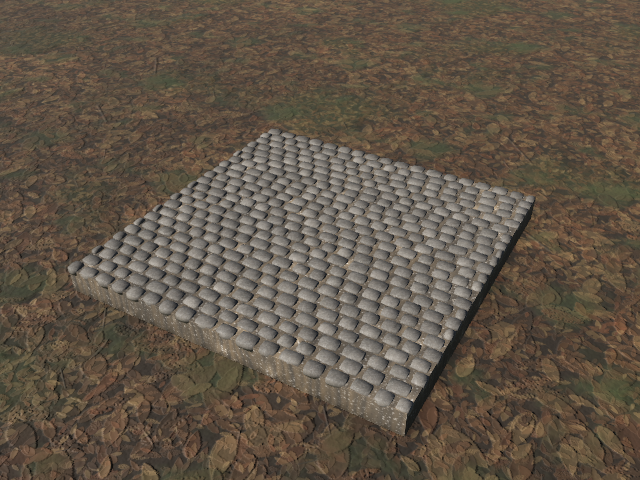
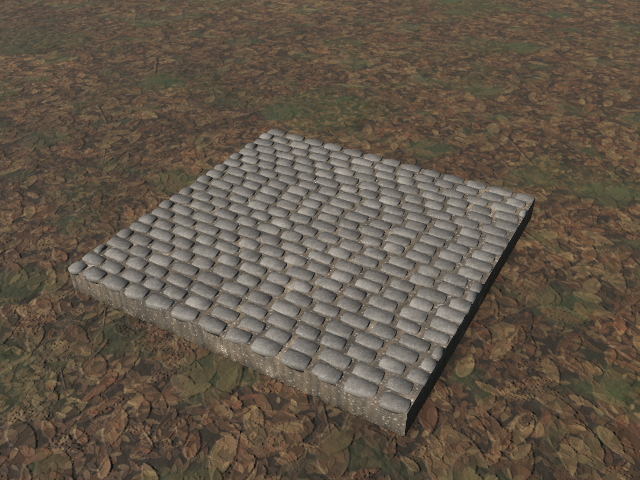
City tiles: summaries under 160 chars, cobble setts 22 x 12 cm within the 15k brief cap; signal lamp materials

Changed region(s): [[0.0938, 0.2812, 0.8438, 0.875]]

diff --git a/Sources/RealMaterials/Library/City.swift b/Sources/RealMaterials/Library/City.swift
@@ -60,13 +60,13 @@ public extension MaterialLibrary {
         MaterialSpec(key: "sign.green", program: nil).with { $0.baseColor = V3(0.0, 0.16, 0.07); $0.roughness = 0.35; $0.clearcoat = 0.6 },
         // Signal lamps lit: red, amber, green, walk-white, don't-walk orange.
         MaterialSpec(key: "emissive.signal-red", program: nil).with {
-            $0.baseColor = V3(1, 0.1, 0.06); $0.mode = .emissive; $0.emissive = V3(1, 0.08, 0.04); $0.emissiveIntensity = 5
+            $0.baseColor = V3(0.9, 0.02, 0.01); $0.mode = .emissive; $0.emissive = V3(1, 0.03, 0.01); $0.emissiveIntensity = 2.5
         },
         MaterialSpec(key: "emissive.signal-green", program: nil).with {
-            $0.baseColor = V3(0.2, 1, 0.75); $0.mode = .emissive; $0.emissive = V3(0.1, 1, 0.7); $0.emissiveIntensity = 5
+            $0.baseColor = V3(0.05, 0.9, 0.6); $0.mode = .emissive; $0.emissive = V3(0.02, 1, 0.65); $0.emissiveIntensity = 2.5
         },
         MaterialSpec(key: "emissive.signal-orange", program: nil).with {
-            $0.baseColor = V3(1, 0.45, 0.1); $0.mode = .emissive; $0.emissive = V3(1, 0.4, 0.08); $0.emissiveIntensity = 4
+            $0.baseColor = V3(1, 0.35, 0.02); $0.mode = .emissive; $0.emissive = V3(1, 0.32, 0.02); $0.emissiveIntensity = 2.5
         },
         MaterialSpec(key: "emissive.signal-white", program: nil).with {
             $0.baseColor = V3(1, 0.97, 0.9); $0.mode = .emissive; $0.emissive = V3(1, 0.96, 0.88); $0.emissiveIntensity = 4
@@ -79,7 +79,7 @@ public extension MaterialLibrary {
         },
         // Fountain basin water, clear with slight green.
         MaterialSpec(key: "water.fountain", program: nil).with {
-            $0.baseColor = V3(0.35, 0.45, 0.42); $0.roughness = 0.03; $0.specular = 0.6; $0.mode = .transparent; $0.opacity = 0.55
+            $0.baseColor = V3(0.12, 0.17, 0.15); $0.roughness = 0.03; $0.specular = 0.7; $0.mode = .transparent; $0.opacity = 0.7
         },
         // Hot-poured crack sealant, dull from grit and traffic.
         MaterialSpec(key: "asphalt.sealant", program: nil).with { $0.baseColor = V3(0.02, 0.02, 0.019); $0.roughness = 0.7 },
@@ -102,6 +102,10 @@ public extension MaterialLibrary {
         MaterialSpec(key: "metal.cast-iron-street", program: .rustMetal).with {
             $0.colorA = linear(0x2E2A27); $0.colorB = linear(0x1A1817); $0.knobs = V4(0.12, 0, 0, 0); $0.seed = 9181
             $0.tileSize = 0.5; $0.hasMetallicMap = true; $0.normalStrength = 2.0; $0.roughness = 0.7
+        },
+        // Aerated falling water and foam: white, translucent.
+        MaterialSpec(key: "water.fountain-foam", program: nil).with {
+            $0.baseColor = V3(0.82, 0.87, 0.87); $0.roughness = 0.25; $0.specular = 0.5; $0.mode = .transparent; $0.opacity = 0.3; $0.twoSided = true
         },
         // realityhd:material.city
     ]

diff --git a/Sources/RealLibrary/Structures/City/CityKit.swift b/Sources/RealLibrary/Structures/City/CityKit.swift
@@ -291,3 +291,39 @@ extension Xform {
         Xform(translation: translation + rotation.act(local.translation * scale), rotation: rotation * local.rotation, scale: scale * local.scale)
     }
 }
+
+// MARK: - Signals
+
+/// Three-section 30 cm (12 in) vehicle signal head facing +Z, origin at the head's center: polycarbonate
+/// housing, lenses with tunnel visors and a black backplate with a yellow retroreflective border.
+/// `lit` 0 red, 1 amber, 2 green; nil = all dark.
+public func citySignalHead(_ m: inout Model, at x: Xform, lit: Int? = 0, sections: Int = 3, housing: MaterialKey = "metal.signal-yellow",
+                           backplate: Bool = true) {
+    let pitch: Float = 0.36, H = pitch * Float(sections) + 0.02, W: Float = 0.36, D: Float = 0.24
+    m.add(Prim.roundedBox(V3(W, H, D), radius: 0.02, bevelSegments: 2, material: housing), x)
+    if backplate {
+        let bp = Shape2D.roundedRect(W + 0.28, H + 0.24, radius: 0.07, segments: 4)
+        citySignPlate(&m, outline: bp, x: x.child(Xform(translation: V3(0, 0, -D / 2 - 0.006))), thickness: 0.004, border: 0.05,
+                      borderMaterial: "sign.white:E8B800", face: "plastic.black", back: nil, twoSided: true)
+    }
+    let lamps: [MaterialKey] = ["emissive.signal-red", "emissive.signal-orange", "emissive.signal-green"]
+    for i in 0..<sections {
+        let y = (Float(sections - 1) / 2 - Float(i)) * pitch
+        let on = (lit ?? -1) == i
+        let face = x.child(Xform(translation: V3(0, y, D / 2)))
+        // Door ring and lens.
+        m.add(Prim.cylinder(radius: 0.155, height: 0.012, bevel: 0.004, segments: 20, bevelSegments: 1, material: housing),
+              face.child(Xform(rotation: simd_quatf(degrees: 90, axis: V3(1, 0, 0)))))
+        var lens = Prim.superellipsoid(V3(0.27, 0.27, 0.04), exponent: 2, subdivisions: 4, material: on ? lamps[i % 3] : "glass.signal-off")
+        lens = lens.transformed(Xform(translation: V3(0, 0, 0.008)))
+        m.add(lens, face)
+        // Tunnel visor: a 300-degree hood open at the bottom, 22 cm deep.
+        let a0: Float = -0.35, a1: Float = .pi + 0.35
+        var band: [V2] = []
+        for k in 0...10 { let a = a0 + (a1 - a0) * Float(k) / 10; band.append(V2(cos(a), sin(a)) * 0.168) }
+        for k in (0...10).reversed() { let a = a0 + (a1 - a0) * Float(k) / 10; band.append(V2(cos(a), sin(a)) * 0.176) }
+        var hood = Prim.extrude(band.reversedIfCW(), depth: 0.22, bevel: 0.002, bevelSegments: 1, material: housing)
+        hood = hood.transformed(Xform(translation: V3(0, 0, 0.11 + 0.01)))
+        m.add(hood, face)
+    }
+}

diff --git a/Sources/RealLibrary/Structures/City/CobblestoneTile.swift b/Sources/RealLibrary/Structures/City/CobblestoneTile.swift
@@ -1,14 +1,14 @@
 import simd
 import Foundation
 
-/// Cobblestone tile on the 3 m city grid: granite setts about 16 x 11 cm laid in running-bond rows
+/// Cobblestone tile on the 3 m city grid: granite setts about 22 x 12 cm laid in running-bond rows
 /// along X on a dark grit bed. Every sett is its own worn, domed block with seeded size, tilt and
 /// tone. Top y ~ 0.25 so it sits flush with sidewalk and plaza tiles.
 public struct CobblestoneTile: RealAsset {
     public static let id = "cobblestone-tile"
     public static let summary = "Cobblestone tile, 3 x 3 m snap cell: rows of worn granite setts with dark grit joints, sidewalk height."
     public static let tags = ["structure", "city", "street", "road", "tile", "outdoor", "stone"]
-    public static let budget = 24000
+    public static let budget = 15000
     public static let author = "realityhd"
     public static let preview = PreviewHint(azimuth: 30, elevation: 35, distance: 1.0)
 
@@ -17,8 +17,8 @@ public struct CobblestoneTile: RealAsset {
     /// Top of the setts (m).
     public var top: Float = CityGrid.walkTop
     /// Sett length along the row (X) and width across (Z) (m).
-    public var settLength: Float = 0.16
-    public var settWidth: Float = 0.11
+    public var settLength: Float = 0.22
+    public var settWidth: Float = 0.12
     /// Joint width (m).
     public var joint: Float = 0.014
     /// Exposed sett height above the grit (m).

diff --git a/Sources/RealLibrary/Structures/City/RoadStraight.swift b/Sources/RealLibrary/Structures/City/RoadStraight.swift
@@ -6,7 +6,7 @@ import Foundation
 /// the 12 m between curbs (curbs live on the adjacent `sidewalk-curb` tiles). Top at y = 0.1.
 public struct RoadStraight: RealAsset {
     public static let id = "road-straight"
-    public static let summary = "Straight two-lane road tile, 12 x 12 m snap cell: asphalt slab with oil-stained lanes, double yellow centre line, white edge lines, concrete gutter pans, crack sealant and a utility patch."
+    public static let summary = "Straight two-lane road tile, 12 m snap cell: asphalt with oil stains, double yellow centre line, edge lines, concrete gutters, sealed cracks, a patch."
     public static let tags = ["structure", "city", "street", "road", "tile", "outdoor", "concrete"]
     public static let budget = 3200
     public static let author = "realityhd"

diff --git a/Sources/RealLibrary/Structures/City/RoadIntersection.swift b/Sources/RealLibrary/Structures/City/RoadIntersection.swift
@@ -6,7 +6,7 @@ import Foundation
 /// edge. Concrete gutter squares sit at the four corners where the curb returns meet. Top at y = 0.1.
 public struct RoadIntersection: RealAsset {
     public static let id = "road-intersection"
-    public static let summary = "Four-way intersection tile, 12 x 12 m snap cell: asphalt box with continental crosswalks and stop bars on all four legs, gutter pans at the corners, sealed cracks and oil drips."
+    public static let summary = "Four-way intersection tile, 12 m snap cell: asphalt box with continental crosswalks and stop bars on four legs, corner gutters, sealed cracks."
     public static let tags = ["structure", "city", "street", "road", "tile", "outdoor", "concrete"]
     public static let budget = 6000
     public static let author = "realityhd"

diff --git a/Sources/RealLibrary/Structures/City/RoadTJunction.swift b/Sources/RealLibrary/Structures/City/RoadTJunction.swift
@@ -6,7 +6,7 @@ import Foundation
 /// the branch carries a crosswalk, stop bar and centre-line stub. Top at y = 0.1.
 public struct RoadTJunction: RealAsset {
     public static let id = "road-t-junction"
-    public static let summary = "T-junction road tile, 12 x 12 m snap cell: through road east-west with a branch south, double yellow centre line, crosswalk and stop bar on the branch, gutter pan on the closed side."
+    public static let summary = "T-junction road tile, 12 m snap cell: east-west through road with a south branch, crosswalk and stop bar on the branch, gutter on the closed side."
     public static let tags = ["structure", "city", "street", "road", "tile", "outdoor", "concrete"]
     public static let budget = 5000
     public static let author = "realityhd"

diff --git a/Sources/RealLibrary/Structures/City/RoadCorner.swift b/Sources/RealLibrary/Structures/City/RoadCorner.swift
@@ -8,7 +8,7 @@ import Foundation
 /// sidewalk top y = 0.25.
 public struct RoadCorner: RealAsset {
     public static let id = "road-corner"
-    public static let summary = "Road corner tile, 12 x 12 m snap cell: two-lane road turning 90 degrees between the west and south edges, curved double yellow line, granite curb and sidewalk filling the outer corner."
+    public static let summary = "Road corner tile, 12 m snap cell: two-lane road bending between the west and south edges, curved centre line, granite curb and sidewalk outside."
     public static let tags = ["structure", "city", "street", "road", "tile", "outdoor", "concrete", "stone"]
     public static let budget = 8600
     public static let author = "realityhd"
